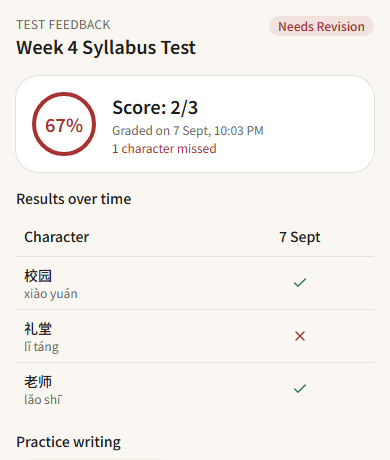
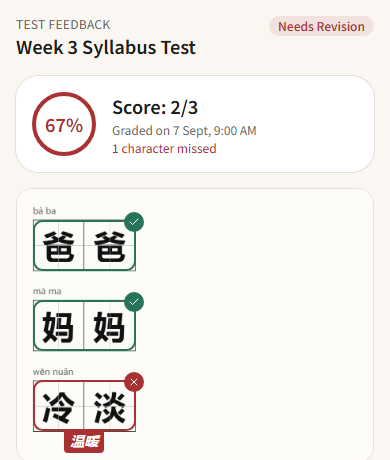
docs: fix the results.png correction box with a cleaner demo photo
Asked directly whether the red box under-covering both characters of
"温暖" in results.png was a real overlay bug. It wasn't:
boundingBoxToOverlayStyle is a plain, unit-tested linear transform, and
gradeSubmission.ts sends Gemini the exact bytes the overlay renders -
the earlier under-coverage was Gemini's own imprecision against that
specific demo photo, not our math.

Built a cleaner synthetic worksheet (Playwright-rendered HTML, the
app's own Noto Sans SC font) with unambiguous wrong handwriting for
温暖, and sent it through a real Gemini call (gemini-3.6-flash -
gemini-flash-latest had hit its daily free-tier ceiling again). The
real box_2d this time matched the correct rows' x-range exactly: a
full two-cell span, not truncated.

Rebuilt all three historical submissions with explicit Asia/Singapore
timestamps instead of now() - the previous capture's now() landed
within seconds of local midnight, showing "Graded on 8 Sept" against a
"7 Sept" history column for the same row, a test-fixture timing
artifact, not a code bug. Regenerated results.png (docs + public) and
history.png, then deleted every temp submission, its character_results,
and the Storage object - confirmed 0 rows remaining.

Claude-Session: https://claude.ai/code/session_01EnRVpHouQnX2heCuSAXR8o

diff --git a/docs/planning/FSD_TingXieHero.md b/docs/planning/FSD_TingXieHero.md
@@ -2019,6 +2019,32 @@ plus the full Vitest/e2e/`impeccable detect` pass - all clean. Regenerated
 
 ---
 
+### Phase 58 (beyond the original plan) — the results.png correction box was cut off because of the demo photo, not the overlay code
+
+Directly asked whether the red box under-covering "温暖" (both characters) in the previous
+screenshot was a real overlay bug. Re-confirmed `boundingBoxToOverlayStyle` is a plain, unit-tested
+linear transform, and `gradeSubmission.ts` sends Gemini the exact same image bytes the overlay later
+renders - so the overlay math itself was never the issue (see Phase 55's investigation). What was
+fixable: the specific demo photo behind that screenshot. Built a fresh synthetic worksheet image (a
+Playwright-rendered HTML page reusing the app's own Noto Sans SC font, exported as JPEG - no new
+asset, same technique implied by Phase 46's synthetic-worksheet approach) with large, clearly wrong
+handwriting for 温暖, and sent it through a real Gemini call - `gemini-flash-latest` (really
+`gemini-3.8-flash`) had hit its 20-requests/day free-tier ceiling again, so used `gemini-3.6-flash`
+(separate quota, same fallback this project has used before). The real response's `box_2d` for
+"温暖" matched the exact x-range of the two correct words above it (`xmin`/`xmax` 45/333 all three
+rows) - a full, correctly-detected two-cell span, not truncated. The earlier screenshot's under-
+coverage was Gemini's own imprecision against that specific (different, messier) photo, exactly as
+Phase 55 concluded - a cleaner, clearer synthetic photo simply gives the model less room to be
+imprecise. Rebuilt all three historical submissions (28 Aug/2 Sept/7 Sept, same score pattern as
+before: 1/3, 2/3, 2/3) with explicit daytime `Asia/Singapore` timestamps rather than `now()` - the
+previous capture's `now()` had landed within seconds of actual local midnight, showing "Graded on 8
+Sept" against a "7 Sept" history column for the same submission, a real display artifact of the test
+fixture's timing, not a code bug. Regenerated `results.png` (both `docs/` and `public/`) and
+`history.png`, then deleted every temp submission, its `character_results`, and the Storage object -
+confirmed 0 rows remaining.
+
+---
+
 ## 7. Environment Variables
 
 ```
